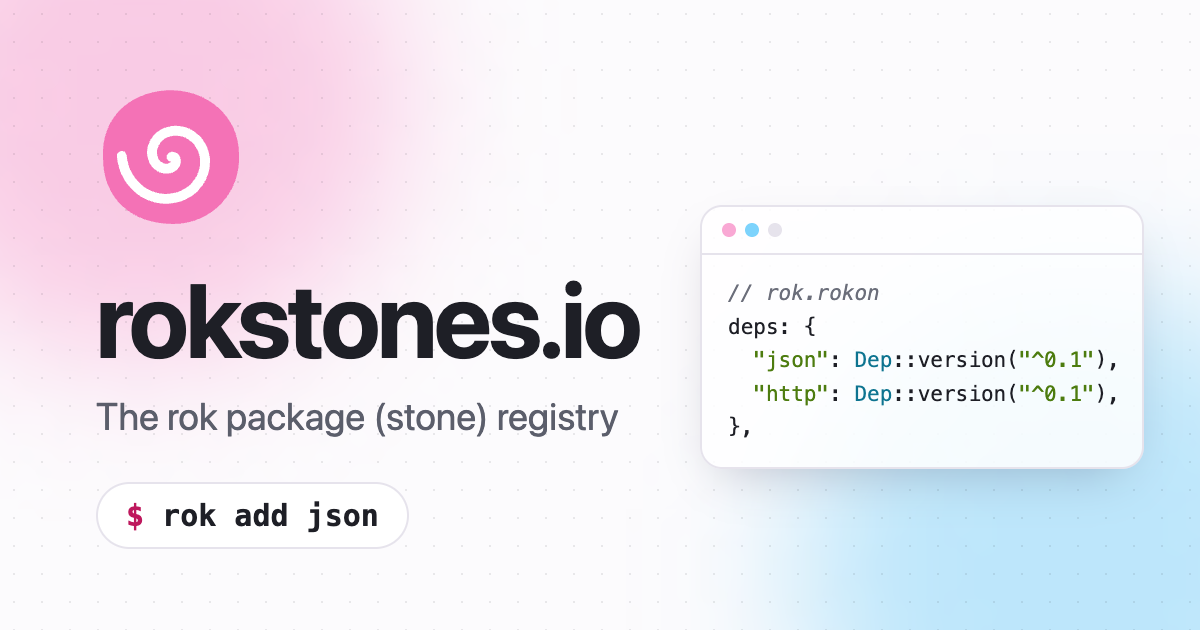
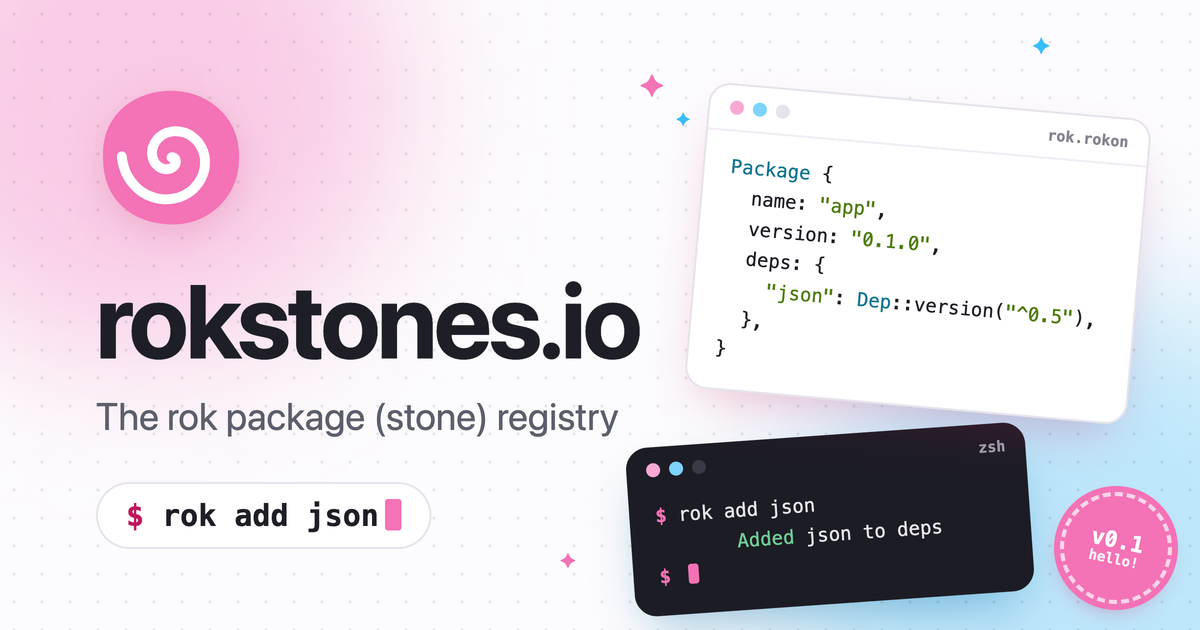
style: og.png iterations, docs link, text cleanup
- og.png: code window over a terminal, v0.1 sticker
- docs links go to docs.rok-lang.org
- footer: made and maintained by DaminStudio
- plain hyphens, dots and quotes (no em dashes)

diff --git a/static/style.css b/static/style.css
@@ -18,6 +18,8 @@
   --glow-1: rgb(244 114 182 / .28);
   --glow-2: rgb(56 189 248 / .24);
   --shadow: 0 1px 2px rgb(30 20 50 / .06), 0 8px 24px rgb(30 20 50 / .08);
+  /* Popups: the page in light, a step up in dark. */
+  --raised: var(--bg);
   --k: #be185d;
   --t: #0e7490;
   --s: #4d7c0f;
@@ -30,7 +32,7 @@
   --caution: #b84036;
   --tip: #24774d;
 
-  --mono: ui-monospace, "SF Mono", SFMono-Regular, Menlo, Consolas, "D2Coding", monospace;
+  --mono: "rok-mono-math", ui-monospace, "SF Mono", SFMono-Regular, Menlo, Consolas, "D2Coding", monospace;
   --sans: system-ui, -apple-system, "Apple SD Gothic Neo", "Noto Sans KR", "Malgun Gothic", sans-serif;
 
   /* Type scale: 16px base, ratio 1.25, rounded to the 4px grid. */
@@ -63,8 +65,10 @@
   color-scheme: light dark;
 }
 
+/* Dark: by the system setting unless the reader picked light, or by the
+   reader's pick (search.js sets data-theme on <html>). */
 @media (prefers-color-scheme: dark) {
-  :root {
+  :root:not([data-theme="light"]) {
     --bg: #15151b;
     --fg: #e6e5ec;
     --muted: #9c9eab;
@@ -93,7 +97,51 @@
     --warning: #e0b057;
     --caution: #ef8478;
     --tip: #6fcf97;
+    --raised: var(--panel);
+    color-scheme: dark;
   }
+}
+
+:root[data-theme="dark"] {
+  --bg: #15151b;
+  --fg: #e6e5ec;
+  --muted: #9c9eab;
+  --line: #2b2b35;
+  --line-strong: #6a6a78;
+  --panel: #1c1c24;
+  --code-bg: #1e1e27;
+  --accent: #7dd3fc;
+  --accent-soft: #0c2c40;
+  --accent-2: #f9a8d4;
+  --accent-2-deep: #fbcfe8;
+  --accent-2-soft: #3b1a2e;
+  --on-accent: #15151b;
+  --focus: #f472b6;
+  --glow-1: rgb(244 114 182 / .22);
+  --glow-2: rgb(56 189 248 / .18);
+  --shadow: 0 1px 2px rgb(0 0 0 / .3), 0 12px 32px rgb(0 0 0 / .45);
+  --k: #f9a8d4;
+  --t: #67e8f9;
+  --s: #a3d977;
+  --n: #fdba74;
+  --c: #8a8c99;
+  --a: #f472b6;
+  --note: #7dd3fc;
+  --important: #f9a8d4;
+  --warning: #e0b057;
+  --caution: #ef8478;
+  --tip: #6fcf97;
+  --raised: var(--panel);
+  color-scheme: dark;
+}
+:root[data-theme="light"] { color-scheme: light; }
+
+/* ui-monospace (SF Mono) has no √ ∘ ∪ ...: take them from a mono font that
+   does, so tables in <pre> keep their columns. */
+@font-face {
+  font-family: "rok-mono-math";
+  src: local("Menlo"), local("DejaVu Sans Mono"), local("Cascadia Mono"), local("Consolas");
+  unicode-range: U+2190-21FF, U+2200-22FF, U+2300-23FF, U+25A0-25FF;
 }
 
 * { box-sizing: border-box; }
@@ -265,12 +313,11 @@ kbd {
   margin: 0;
   padding: var(--sp-1);
   list-style: none;
-  background: var(--bg);
+  background: var(--raised);
   border: 1px solid var(--line-strong);
   border-radius: var(--r-lg);
   box-shadow: var(--shadow);
 }
-@media (prefers-color-scheme: dark) { .results { background: var(--panel); } }
 .results a { display: block; padding: var(--sp-2) var(--sp-3); border-radius: var(--r-md); color: var(--fg); line-height: 1.4; }
 .results a:hover, .results a[aria-selected="true"] { background: var(--accent-soft); text-decoration: none; color: var(--fg); }
 .results code { color: var(--muted); font-size: var(--fs-sm); }
@@ -285,6 +332,24 @@ kbd {
   font: 600 var(--fs-xs)/1.7 var(--mono);
 }
 .results .empty { padding: var(--sp-2) var(--sp-3); color: var(--muted); }
+
+.theme {
+  flex-shrink: 0;
+  display: inline-grid;
+  place-items: center;
+  width: 36px;
+  height: 36px;
+  padding: 0;
+  border: 1px solid var(--line);
+  border-radius: 50%;
+  background: none;
+  color: var(--muted);
+  font: 16px/1 var(--sans);
+  cursor: pointer;
+}
+.theme:hover { color: var(--accent-2); border-color: var(--accent-2); }
+.main-nav + .theme { margin-left: auto; }
+@media (pointer: coarse) { .theme { width: var(--target); height: var(--target); } }
 
 /* article */
 
@@ -368,6 +433,8 @@ pre code { font-size: 1em; }
 .copy.done { color: var(--tip); border-color: var(--tip); }
 @media (pointer: coarse) {
   .copy { opacity: 1; min-height: 32px; padding: 0 var(--sp-3); }
+  /* The button is always shown here: keep the first line clear of it. */
+  .code > pre { padding-top: 48px; }
 }
 @media (prefers-reduced-motion: no-preference) {
   .copy { transition: opacity 120ms ease-out, color 120ms ease-out, border-color 120ms ease-out; }
@@ -395,6 +462,8 @@ article :is(pre, .code):has(+ pre.output) + pre.output { border-top: 1px dashed 
 .table-wrap { overflow-x: auto; }
 table { border-collapse: collapse; font-size: var(--fs-sm); font-variant-numeric: tabular-nums; }
 th, td { padding: var(--sp-2) var(--sp-3); border: 1px solid var(--line); vertical-align: top; }
+/* Code in a cell stays whole; the table scrolls instead. */
+:is(td, th) > code { overflow-wrap: normal; white-space: nowrap; }
 th { background: var(--panel); text-align: left; }
 
 blockquote { margin-left: 0; padding: 0 var(--sp-4); border-left: 3px solid var(--line); color: var(--muted); }
@@ -447,9 +516,13 @@ footer {
 footer p { margin: var(--sp-1) 0; }
 footer a { display: inline-block; padding: 2px 0; }
 footer .links { display: flex; flex-wrap: wrap; justify-content: center; gap: 0 var(--sp-3); margin: 0 0 var(--sp-2); padding: 0; list-style: none; }
-footer .links li + li::before { content: "·"; margin-right: var(--sp-3); color: var(--line-strong); }
+/* The dot ends a line rather than starting one. */
+footer .links li:not(:last-child)::after { content: "·"; margin-left: var(--sp-3); color: var(--line-strong); }
+footer p { text-wrap: balance; }
 footer .made { font-family: var(--mono); font-size: var(--fs-xs); }
 footer .made::before { content: "// "; color: var(--accent-2); }
+footer .by { margin: var(--sp-3) 0 var(--sp-1); }
+footer .by a { font-weight: 600; }
 
 @media (prefers-reduced-motion: no-preference) {
   .main-nav a, .cta a, .card, .pager a, .side a, .stones a, .results a {
@@ -561,6 +634,9 @@ h1, h2, h3 { line-height: 1.25; }
 .tag { padding: 0 var(--sp-2); border: 1px solid var(--line-strong); border-radius: 999px; font-size: var(--fs-xs); line-height: 1.6; color: var(--muted); }
 .tag.latest { border-color: transparent; background: var(--accent-2-soft); color: var(--accent-2); font-weight: 600; }
 .tag.yanked { border-color: var(--caution); color: var(--caution); }
+.stones .yanked .name, .stones .yanked .ver { color: var(--muted); text-decoration: line-through; }
+.stones .tag { margin-left: 6px; }
+.stone-head .ver.yanked { background: var(--panel); color: var(--muted); text-decoration: line-through; }
 
 /* small screens */
 
@@ -569,7 +645,10 @@ h1, h2, h3 { line-height: 1.25; }
   /* Brand and search on one row, the nav a scrolling strip below. */
   .top { position: relative; flex-wrap: wrap; gap: 0 var(--sp-3); padding: var(--sp-2) var(--sp-4) 0; }
   .brand { min-height: var(--target); }
-  .top > .search { order: 1; flex: 1; min-width: 0; margin: 0; }
+  .theme { order: 1; }
+  .main-nav + .theme { margin-left: auto; }
+  /* Above the nav strip, whose mask makes it a stacking context. */
+  .top > .search { order: 1; flex: 1; min-width: 0; margin: 0; position: relative; z-index: 2; }
   .top > .search .q { width: 100%; height: 40px; }
   .main-nav {
     order: 2;

diff --git a/static/search.js b/static/search.js
@@ -24,12 +24,35 @@
         await navigator.clipboard.writeText(pre.innerText.replace(/\n$/, ""));
         b.textContent = "copied ✓";
       } catch {
-        b.textContent = "press ⌘C";
+        b.textContent = /Mac|iPhone|iPad/.test(navigator.platform) ? "press ⌘C" : "press Ctrl+C";
       }
       b.classList.add("done");
       setTimeout(() => { b.textContent = "copy"; b.classList.remove("done"); }, 1600);
     });
     wrap.append(b);
+  }
+
+  // Theme button: auto (the system setting) → light → dark. The choice
+  // is this reader's alone, so it lives in localStorage; the inline
+  // script in <head> applies it before the page paints.
+  const tb = document.querySelector(".theme");
+  if (tb) {
+    const order = ["auto", "light", "dark"];
+    const glyph = { auto: "◐", light: "☀", dark: "☾" };
+    const get = () => { try { return localStorage.getItem("theme") || "auto"; } catch { return "auto"; } };
+    const show = (t) => {
+      tb.textContent = glyph[t];
+      tb.setAttribute("aria-label", `Theme: ${t}`);
+      tb.title = `Theme: ${t}`;
+    };
+    show(get());
+    tb.addEventListener("click", () => {
+      const t = order[(order.indexOf(get()) + 1) % order.length];
+      try { t === "auto" ? localStorage.removeItem("theme") : localStorage.setItem("theme", t); } catch {}
+      if (t === "auto") delete document.documentElement.dataset.theme;
+      else document.documentElement.dataset.theme = t;
+      show(t);
+    });
   }
 
   // 404.html: name the missing path in the error.

diff --git a/README.md b/README.md
@@ -20,7 +20,7 @@ You need the rok toolchain (`rok`, `rokc`), `git`, and an index checkout. The de
 └── rokstones.io/          # this repository
 ```
 
-If you have no toolchain, install one (`curl -fsSL https://rok-lang.org/install.sh | sh`, see [Getting Started](https://rok-lang.org/learn/01-getting-started.html)) or build it from source:
+If you have no toolchain, install one (`curl -fsSL https://rok-lang.org/install.sh | sh`, see [Getting Started](https://docs.rok-lang.org/latest/learn/01-getting-started.html)) or build it from source:
 
 ```bash
 cd ../rok
@@ -140,7 +140,7 @@ Edit `site.rokon` (ROKON).
 | `index`      | Index checkout (default `../rokstones.io-index`) |
 | `index_repo` | Web URL of the index repository (stone file links, pull request instructions) |
 | `base_url`   | Site URL (`https://rokstones.io`), used for canonical links |
-| `docs`       | Language docs URL (`https://rok-lang.org`) |
+| `docs`       | Language docs URL (`https://docs.rok-lang.org`) |
 | `cache`      | README cache directory (default `.cache`) |
 | `out`        | Output directory (default `public`) |
 
